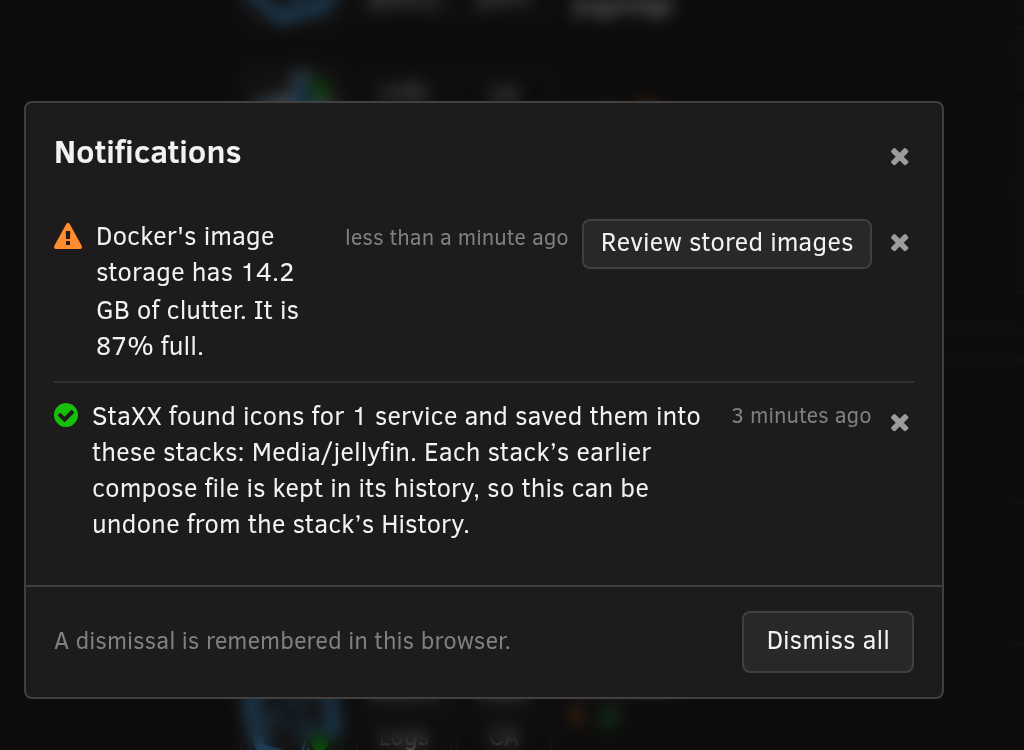
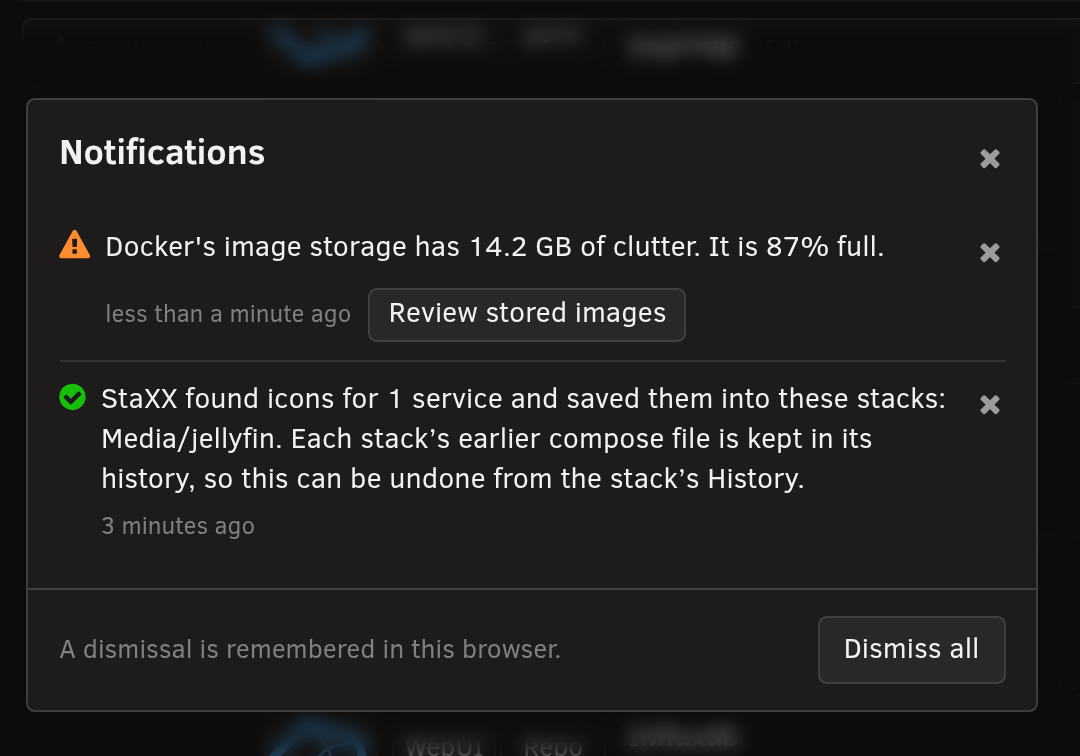
Guide: the Notifications panel picture shows the two-line notices (PLAN_228 Part C)
Claude-Session: https://claude.ai/code/session_01P1YRrWifJ1tpeExJ9ovCp1

diff --git a/docs/guide/the-stack-list.md b/docs/guide/the-stack-list.md
@@ -45,7 +45,7 @@ fixed.
 
 ![The notice line to the left of the button row, ringed: a warning icon, a message saying Docker's image storage has 14.2 GB of clutter and is 87% full, and a count of 2 at its right end, with the Database folder and two of its stacks beneath](../images/guide/the-stack-list-notices-ticker.png)
 
-![The Notifications panel opened under that line: two entries, each with an icon, its message, how long ago it arrived and a dismiss cross, the first carrying a Review stored images button, and a Dismiss all button in the panel's footer](../images/guide/the-stack-list-notices-panel.png)
+![The Notifications panel: two entries, each with an icon, its message and a dismiss cross, with how long ago it arrived underneath, the first also carrying a Review stored images button under its message, and a Dismiss all button in the panel's footer](../images/guide/the-stack-list-notices-panel.png)
 
 ## The title bar
 
